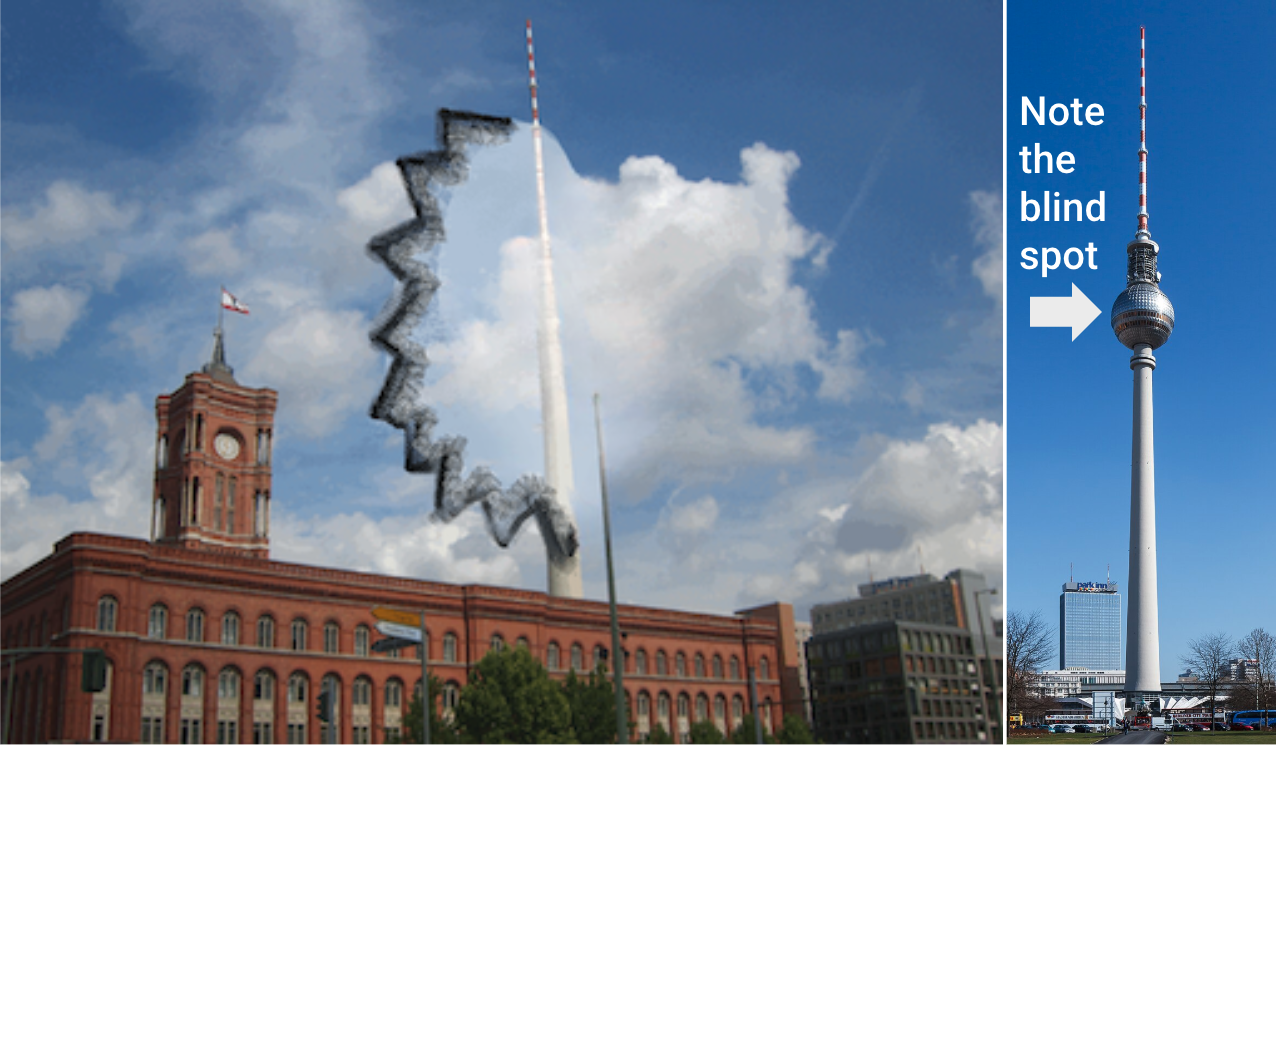
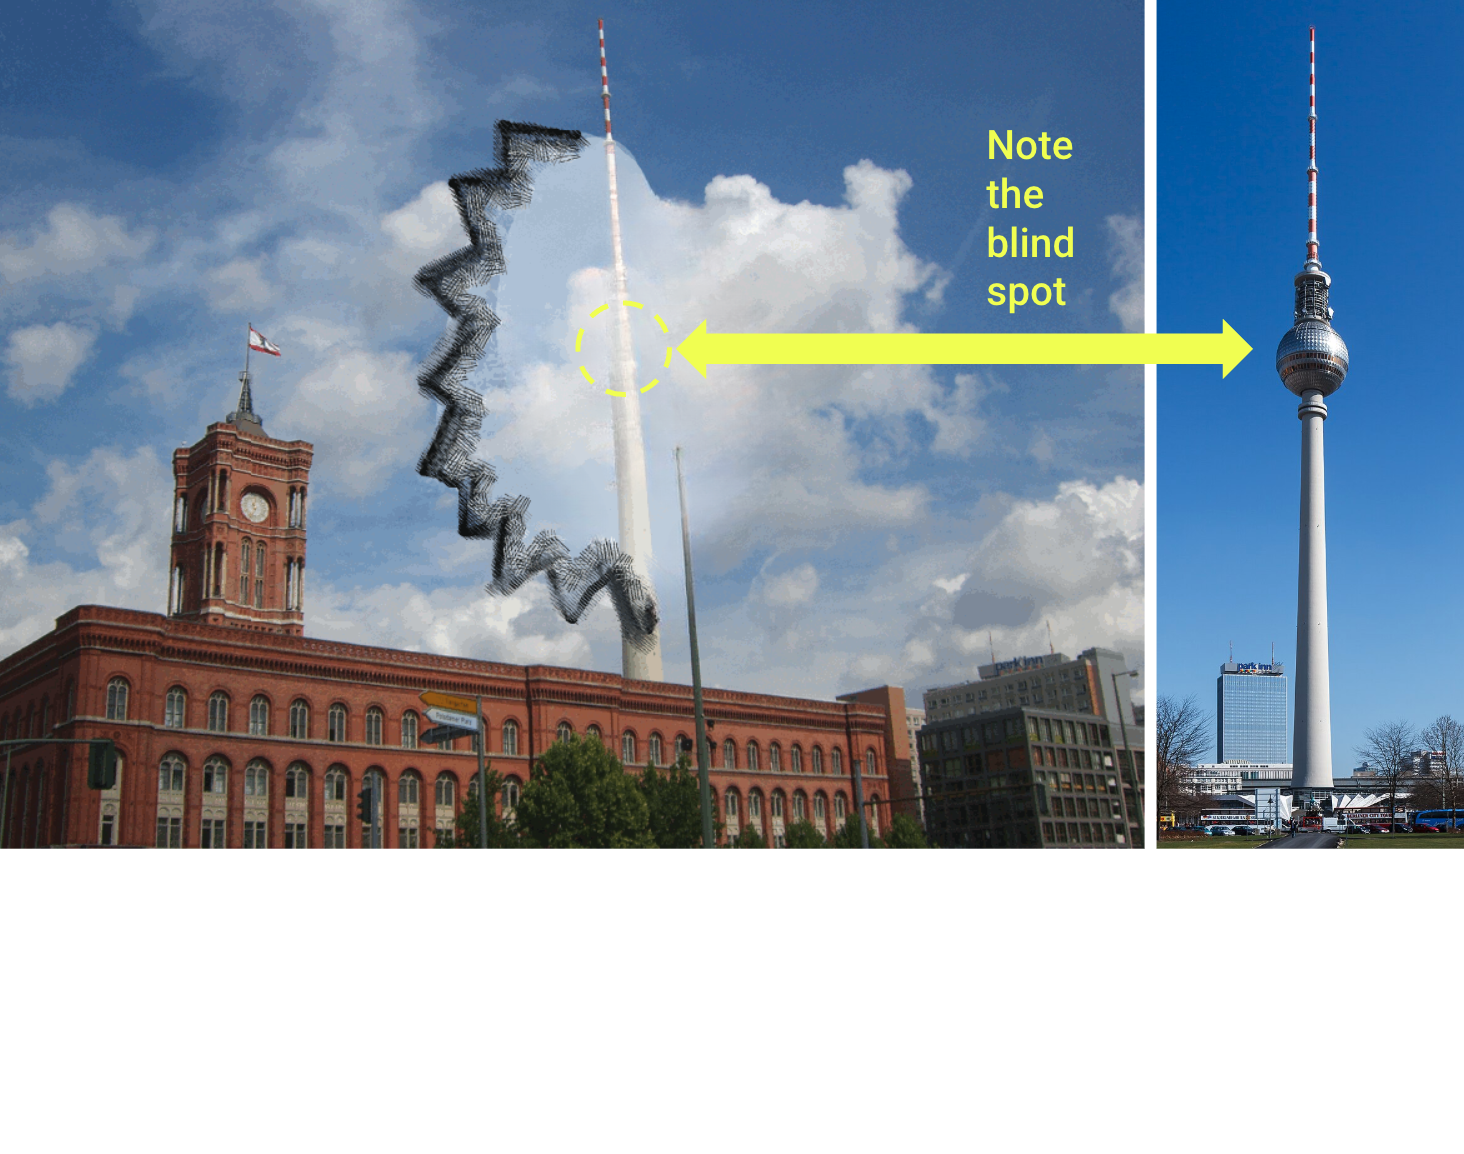
add figure to revealing expereince

diff --git a/content/experiences/_index.md b/content/experiences/_index.md
@@ -6,6 +6,31 @@ description: "Making the invisible visible — through art and lived stories"
 summary: "Gateway page for migraine art and symptom structure."
 ---
 
+
+
+<div style="display: flex; justify-content: center; gap: 2rem;">
+  <figure style="margin: 0; text-align: center;">
+      <figcaption style="font-size: 1.2em; margin-top: 0.5em;">
+          Expressed in Art
+      </figcaption>
+    <img
+      src="/images/roteRathausZigzag_cleanup-orgiginal.png"
+      style="width: 420px; height: auto;"
+      alt="" />
+  </figure>
+
+  <figure style="margin: 0; text-align: center;">
+      <figcaption style="font-size: 1.2em; margin-top: 0.5em;">
+          Structured by Medical Criteria
+      </figcaption>
+    <img
+      src="/images/s.png"
+      style="width: 600px; height: auto;"
+      alt="" />
+  </figure>
+</div>
+A visual migraine aura presenting with both positive and negative symptoms, with a transient duration (≤ 60 minutes).
+
 ## Expressed in Art
 
 Migraine art captures what words often can’t — how migraine feels from the inside.  

diff --git a/content/symptoms/_index.md b/content/symptoms/_index.md
@@ -11,7 +11,7 @@ donut_settings:
   width: 400
   height: 400
   outerRadius: 160
-  innerRadius: 80
+  innerRadius: 60
 
 donut_sections:
   - degrees: 50
